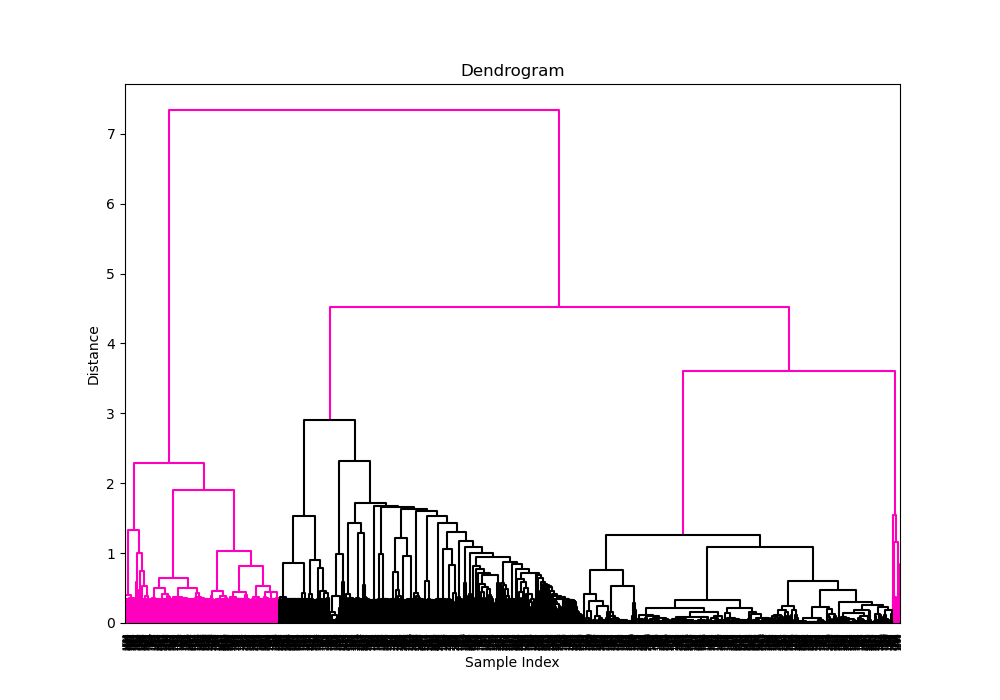
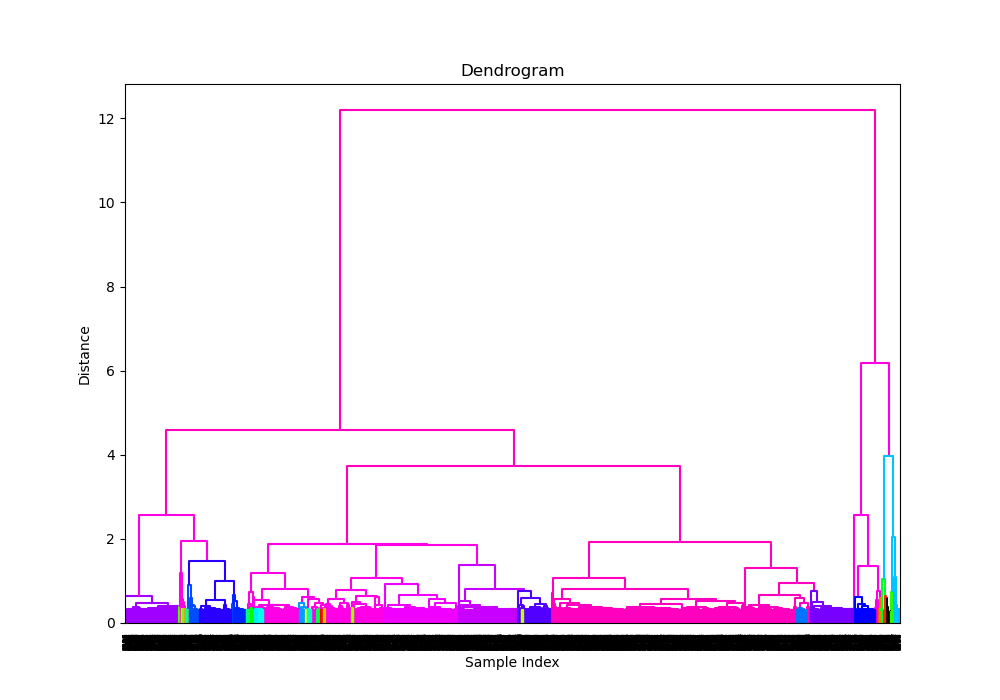
technically got a working alpha!

diff --git a/cliquebait/bin/CliqueBait.py b/cliquebait/bin/CliqueBait.py
@@ -6,14 +6,20 @@ from cliquebait.utils import parse_fastani_output
 from cliquebait.guidetrees import available_guidetrees, get_guidetree_class
 from cliquebait.clustering.cliquebaitClustering import cliqueblocksClustering
 import cliquebait
+import json
+
 
 description_text = "TO DO"
 
 
 def main(**arg): 
     cliquebait.set_verbose(arg['verbose'])
-    output = arg['output']
+    output = arg['output'][0] if arg['output'] else sys.stdout
     force = arg['force']
+
+    if output != sys.stdout and os.path.exists(output) and not arg['force']:
+        print(f"Output file {output} already exists. Use --force to overwrite.", file=stderr)
+        sys.exit(1)
 
     if cliquebait.get_verbose() > 1:
         print("SuperVerbose mode is enabled", file=stderr)
@@ -32,7 +38,11 @@ def main(**arg):
     clustering = cliqueblocksClustering(guide_tree_type, anis, gap_size=gap_size, strain_cutoff=strain_cutoff, bottom_cutoff=bottom_cutoff, denoising_cutoff=denoising_cutoff, size_cutoff=size_cutoff)  
     clustering.cluster_simple()
 #    clustering.draw_network(clusters=clustering.final_clusters)
-    clustering.guide_tree.draw_dendrogram(clusters=clustering.final_clusters)
+    dendro = clustering.guide_tree.draw_dendrogram(clusters=clustering.final_clusters, file = "dendrogram.pdf")
+    clustering.draw_network(clusters=clustering.final_clusters, file = "karate.pdf")
+
+    with open(output, 'w') as f:
+        json.dump(clustering.get_clusters_stats(), f, indent=4)
 
 
 if __name__ == "__main__":

diff --git a/cliquebait/clustering/cliquebaitClustering.py b/cliquebait/clustering/cliquebaitClustering.py
@@ -121,7 +121,7 @@ class cliqueblocksClustering:
         self.final_clusters = final_clusters
 
 
-    def draw_network(self, clusters = None, subset = None, gravity = 3, cutoff = 0.95, layout = None):
+    def draw_network(self, clusters = None, subset = None, gravity = 3, cutoff = 0.95, layout = None, file = None):
         # position map
         import matplotlib.pyplot as plt
         from matplotlib import colors, cm
@@ -178,5 +178,17 @@ class cliqueblocksClustering:
                 )
 
         plt.axis('off')
-        plt.savefig("karate.png")
-        plt.show()
+        if file:
+            plt.savefig(file, format='pdf')
+        else:   
+            plt.show()
+
+    def get_clusters_stats(self):
+
+        cinfor = [ self._get_cluster_info(cluster) for cluster in self.final_clusters]
+        for i, c in enumerate(cinfor):
+            c['id'] = i+1
+            c['genomes'] = list(self.final_clusters[i])
+            c['anis'] = self.ani_dictionary.getset(c['genomes'])
+        
+        return cinfor

diff --git a/cliquebait/guidetrees/__init__.py b/cliquebait/guidetrees/__init__.py
@@ -96,7 +96,7 @@ class Hierarchicalnodeing:
     def find_nodes(self, clstr):
         return {node.id for node in self.iterate_nodes()  if clstr.intersection(self.get_node_info(node)['genomes'])}
 
-    def draw_dendrogram(self, clusters):
+    def draw_dendrogram(self, clusters, file = None):
         from matplotlib import pyplot as plt
         from matplotlib import colormaps
         from scipy.cluster.hierarchy import dendrogram
@@ -111,6 +111,8 @@ class Hierarchicalnodeing:
         plt.title('Dendrogram')
         plt.xlabel('Sample Index')
         plt.ylabel('Distance')
-        plt.savefig('dendrogram.png')
-        plt.close()
+        if file:
+            plt.savefig(file, format='pdf')
+        else:
+            plt.show()
         

diff --git a/cliquebait/utils/__init__.py b/cliquebait/utils/__init__.py
@@ -14,7 +14,7 @@ def parse_fastani_output(fastani_file: str, na_val = None) -> dict:
         raise FileNotFoundError(f"File not found: {fastani_file}")
 
     with open(fastani_file) as handle:
-        anis = [l.strip().split() for l in handle]
+        anis = [l.strip().split() for l in handle if not l.startswith("query")]
     anis = {(v[0], v[1]) : float(v[2]) for v in anis}
 
     dreped_anis = {frozenset((k[0],k[1])) :  v if (k[1], k[0]) not in anis else mean([v, anis[(k[1], k[0])]]) for k, v in anis.items() if k[0] != k[1]}
